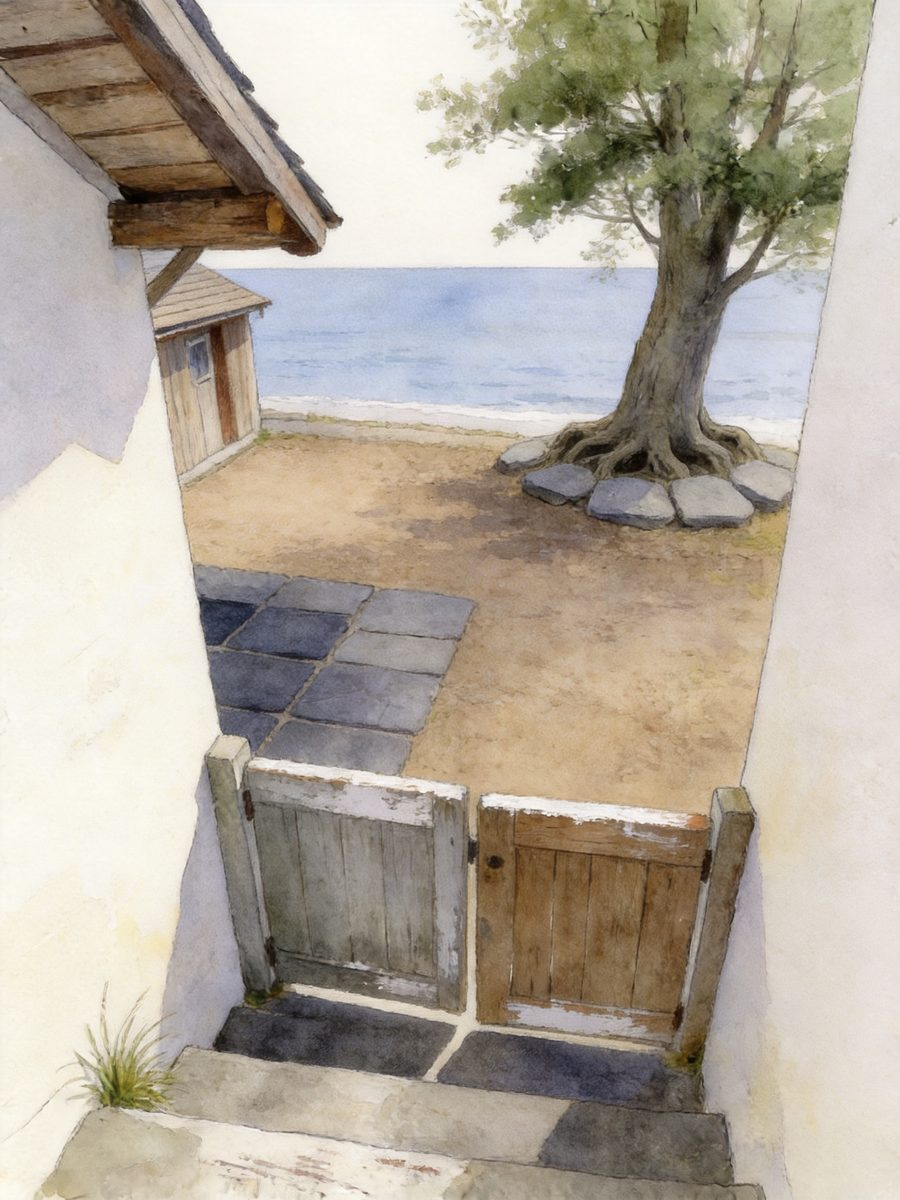
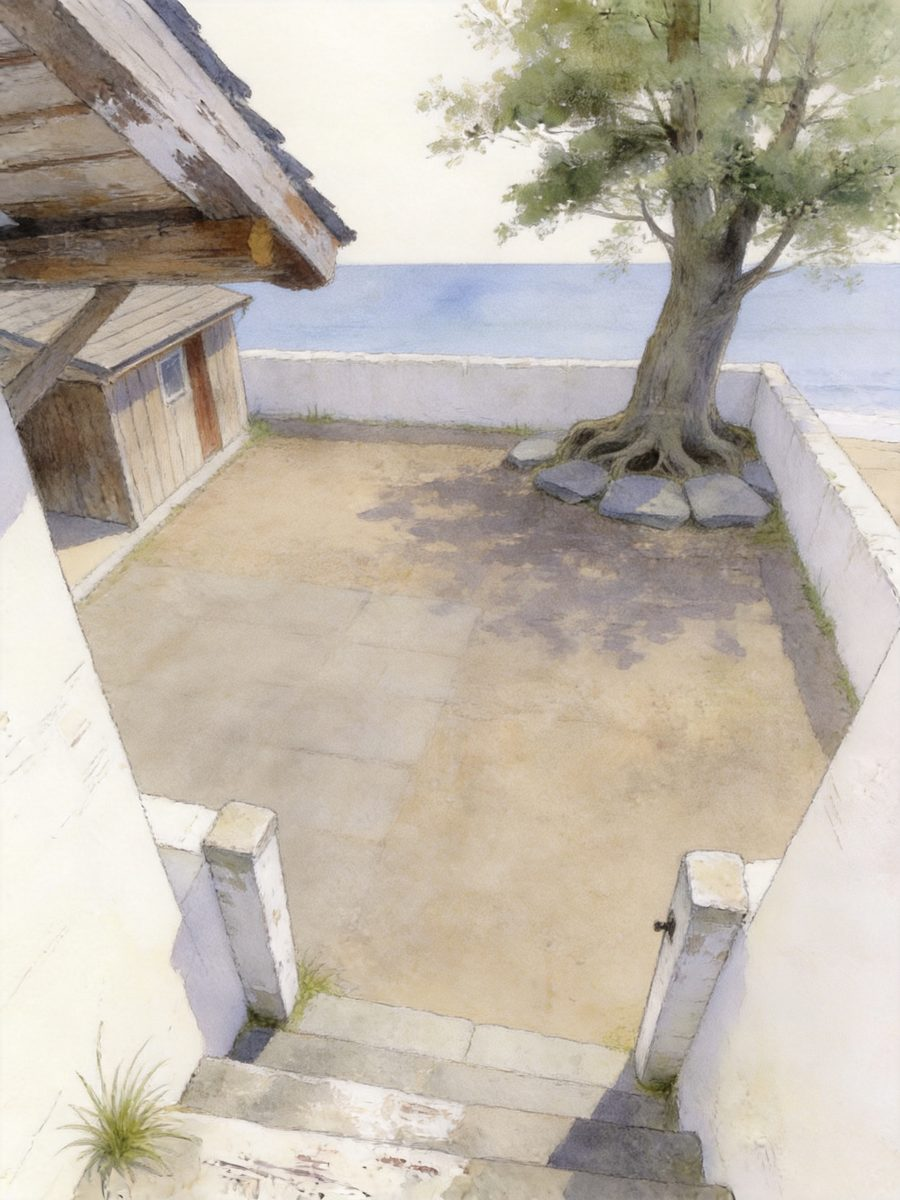
Yard Base v2 构图修正版:按三测拍板只改四处——①门压低(无门扇,只剩矮门柱+石阶,门槛感保留:"这是你回来的地方"不是"看,这是一扇门")②取消走廊夹墙(白墙降为矮围墙,院子占画面绝大部分,檐下空地完整可见)③中央泥地降噪(平整安静,给爪印/毛/挪痕留视觉余量)④树前留静区(生活的树不是景观树);11 §12.9 补录 v1 三测记录(A PASS/B PASS WITH RISK/C HOLD)+验收第四句(院子不能为了显得有生活而画得太满,因为真正的生活还要后来发生在上面);待三测复核,通过即锁,锁前 Renderer 不绑定

diff --git a/scripts/yard-scene.ts b/scripts/yard-scene.ts
@@ -1,12 +1,15 @@
 import "./_env";
-// Yard 母场景 Base 首版（doc2.0/11 §12.9 定稿口径，2026-08-08 创始人拍板）。
+// Yard 母场景 Base（doc2.0/11 §12.9 定稿口径；v2 构图修正版，2026-08-08 三测后）。
 // 用法：npx tsx scripts/yard-scene.ts [--force]
 //
-// 范围铁律：只做 Base + 白天普通天气，零动态事实——不画猫/物件/痕迹/脚印/毛。
-// Base 要证明这里有年月，Trace 才证明这里刚发生过生活（Static Canon 分界）。
-// 构图：轻俯视 3/4 绘本视角，竖构图（390px 第一视口）；小屋左后、老树右后、
-// 中央大片留白；前景是门口石阶。三自然位（檐下/老树边/中央空地）长在环境里，
-// 不是发光 Slot。验收走 §12.9 三极端测试（A 空院子最重要）。
+// v1 三测：A 空院子 PASS · B 单猫 PASS WITH RISK · C 小痕迹 HOLD。
+// v2 只改四处（创始人拍板，其余全部不动）：
+// ① 前景门压低（镜头往院内推进半步——门槛感保留，门不做每天的第二主角）；
+// ② 檐下空间打开（完整容纳一只猫+一个中型物件+一条小 Trace）；
+// ③ 中央泥地减斑驳噪声约两成（Base 必须替 Trace 预留低噪声表面）；
+// ④ 树下前方留一块平静可用区（生活的树，不是景观树）。
+// 验收第四句：院子不能为了显得有生活而画得太满，
+// 因为真正的生活还要后来发生在上面。
 import fs from "node:fs";
 import sharp from "sharp";
 import { generateImage } from "../lib/imagegen";
@@ -17,39 +20,52 @@ const STYLE =
   "画面安静、有空气感和年月感，无人物无动物无文字无水印，" +
   "不要发光效果、不要光粒子、不要花海、不要魔法感装饰，画面里不要出现调色板、色卡、颜色样块";
 
-const ANCHOR_NOTE =
-  "参考图只规定画风（线条、上色、纸纹、配色、光线），必须与参考图画风完全一致；构图内容以文字描述为准。";
+const STYLE_NOTE =
+  "前几张参考图只规定画风（线条、上色、纸纹、配色、光线），必须与参考图画风完全一致。";
+
+const V1_NOTE =
+  "最后一张参考图是这座院子的上一版：保持同一座院子——同样的小屋、老树、海平线、" +
+  "白墙、旧木门、轻俯视视角、水彩画风——只按文字描述调整构图与各部分占比。";
 
 const CONTENT =
-  "海边小镇的一座居民小院，轻微俯视的四分之三视角。" +
-  "左后方是一间小木屋的一角，带一段木屋檐，屋檐下有一小块能放东西的空地；" +
-  "右后方一棵老树，树荫落在地上，树根把石板微微顶起一点；" +
-  "院子中央是一大片什么都没摆的空地，石板和泥土，留白要足；" +
-  "画面前景最下方是院门口的旧石阶和一截矮木门或矮栅栏。" +
-  "这座院子有人住过：石板颜色深浅不均，木门边缘磨得发白，台阶上有旧划痕，" +
-  "墙角长着一小簇草，屋檐木头有风吹日晒的色差；墙线略微不正，草长得不均匀，" +
-  "石头大小不一，带一点不完美的生活感。" +
-  "白天，普通的晴天。院子里没有猫、没有任何动物、没有人，" +
-  "没有脚印、没有散落的物品、没有食盆玩具，空地就是空的。";
+  "海边小镇的一座居民小院，轻微俯视的四分之三视角。镜头已经完全站在院子里面往院内看，" +
+  "视野开阔，院子本身占据画面的绝大部分。" +
+  "画面最底部边缘只露出脚边的一级旧石阶和一小截矮门柱，暗示身后是院门——" +
+  "不要画完整的门扇，不要打开的门。" +
+  "重要：画面左右两侧不要被高墙夹住视线，不要形成走廊或门洞的构图；" +
+  "院子的白色矮围墙很矮，只在画面边缘露出低低的一段。" +
+  "左边是一间小木屋，离得比较近，带一段木屋檐：屋檐下那块空地在画面里完整可见、开阔，" +
+  "足够睡下一只猫、摆下一件东西。" +
+  "右后方一棵老树，树荫落在地上，树根把石板微微顶起一点；树的前方留出一块平整安静的空地。" +
+  "院子中央是一大片什么都没摆的空地：平整安静的泥土和石板，颜色柔和均匀，" +
+  "只有淡淡的深浅变化，不要密集的斑驳、噪点和碎石——这片地要留给以后的生活痕迹。" +
+  "远处是海平线。这座院子有人住过：木头边缘磨得发白，石阶有旧划痕，墙角长着一小簇草，" +
+  "屋檐木头有风吹日晒的色差；墙线略微不正，草长得不均匀，带一点不完美的生活感，但地面干净安静。" +
+  "白天，普通的晴天。院子里没有猫、没有任何动物、没有人，没有脚印、没有散落的物品、" +
+  "没有食盆玩具，空地就是空的。";
 
 async function main() {
   const force = process.argv.includes("--force");
   const out = "public/scenes/yard.jpg";
   if (!force && fs.existsSync(out)) {
-    console.log("yard 已存在（--force 重生成，注意：Base 定稿后永不轻易重生成）");
+    console.log("yard 已存在（--force 重生成；三测通过锁定后永不轻易重生成）");
     return;
   }
-  // 画风锚点：与全岛同一本绘本（挑色调跨度大的定稿场景，锚画风不锚内容）
-  const anchors = ["dock", "home", "lighthouse"]
+  const styleAnchors = ["dock", "home", "lighthouse"]
     .map((n) => `public/scenes/${n}.jpg`)
     .filter((p) => fs.existsSync(p))
     .map((p) => ({ data: fs.readFileSync(p), mime: "image/jpeg" }));
+  // v1 作为"同一座院子"的构图参考（画风锚在前，v1 在最后）
+  const v1Path = "assets/scenes-raw/yard-v1.jpg";
+  const refs = fs.existsSync(v1Path)
+    ? [...styleAnchors, { data: fs.readFileSync(v1Path), mime: "image/jpeg" }]
+    : styleAnchors;
 
-  process.stdout.write("yard base ... ");
+  process.stdout.write("yard base v2 ... ");
   const raw = await generateImage({
-    prompt: `${CONTENT}。${STYLE}${anchors.length > 0 ? `。${ANCHOR_NOTE}` : ""}`,
+    prompt: `${CONTENT}。${STYLE}。${STYLE_NOTE}${fs.existsSync(v1Path) ? ` ${V1_NOTE}` : ""}`,
     size: "1728x2304", // 竖 3:4——390px 第一视口的母场景比例
-    referenceImages: anchors,
+    referenceImages: refs,
     model: process.env.SCENE_MODEL ?? process.env.PORTRAIT_MODEL,
   });
   if (!raw) {
@@ -58,9 +74,10 @@ async function main() {
   }
   fs.mkdirSync("assets/scenes-raw", { recursive: true });
   const ext = raw[0] === 0x89 ? "png" : "jpg";
-  fs.writeFileSync(`assets/scenes-raw/yard.${ext}`, raw);
+  const stamp = fs.readdirSync("assets/scenes-raw").filter((f) => f.startsWith("yard-v2")).length;
+  fs.writeFileSync(`assets/scenes-raw/yard-v2${stamp > 0 ? `-${stamp}` : ""}.${ext}`, raw);
   await sharp(raw).resize(900, 1200, { fit: "cover" }).jpeg({ quality: 82 }).toFile(out);
-  console.log(`✓ ${out}（原图归档 assets/scenes-raw/yard.${ext}）`);
+  console.log(`✓ ${out}`);
 }
 
 main().catch((e) => {

diff --git a/doc2.0/README.md b/doc2.0/README.md
@@ -186,11 +186,12 @@ Yard 表现层改造等 11 冻结后开工——这是从"系统跑起来"切到
 "用户能感受到它"的分界点，视觉骨架做错的返工比文档慢得多。
 11 冻结当日第一刀已落：**YardPresentationModel ✅**（lib/yard/present.ts，
 12.6 管线的语义合成层——注意力中心五档 + 语义节点回溯 + 同状态同语义树 +
-微动不撒谎全部 CI 化）。**母场景 Base 首版已出**（§12.9 口径：轻俯视 3/4
-竖构图、小屋左后/老树右后/中央留白、只有年月没有事件——
-public/scenes/yard.jpg，scripts/yard-scene.ts；待创始人三极端测试
-A 空院子/B 一只猫/C 一撮痕迹）。词面终审已随 04 冻结改码。
-接下来：Base 过三测 → Renderer 接管 Yard 页）
+微动不撒谎全部 CI 化）。**母场景 Base：v1 三测 A PASS / B PASS WITH RISK / C HOLD**（记录入
+11 §12.9，验收第四句补入：院子不能为了显得有生活而画得太满）；
+**v2 构图修正版已出**（四处修正——门压低只剩门柱石阶/取消走廊夹墙/
+中央泥地降噪留 Trace 余量/树前静区；public/scenes/yard.jpg）
+待创始人三测复核，通过即锁；锁前 Renderer 不绑定 Base。
+词面终审已随 04 冻结改码。接下来：Base 锁定 → Renderer 接管 Yard 页）
 ```
 
 纪律照旧：**一篇一议**（点题→立稿→评审→冻结）；多人相关（兴趣组/串门/世界猫跨院）
